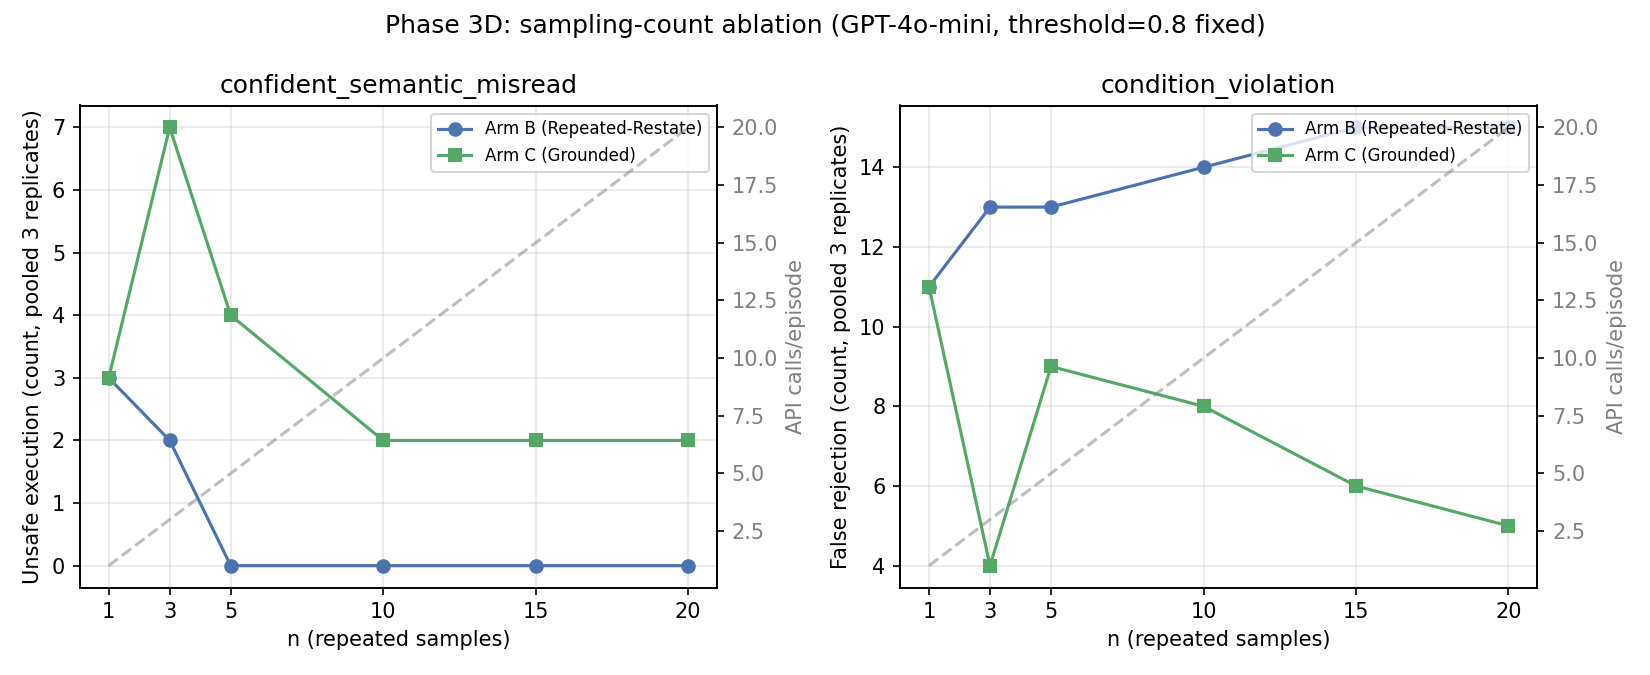
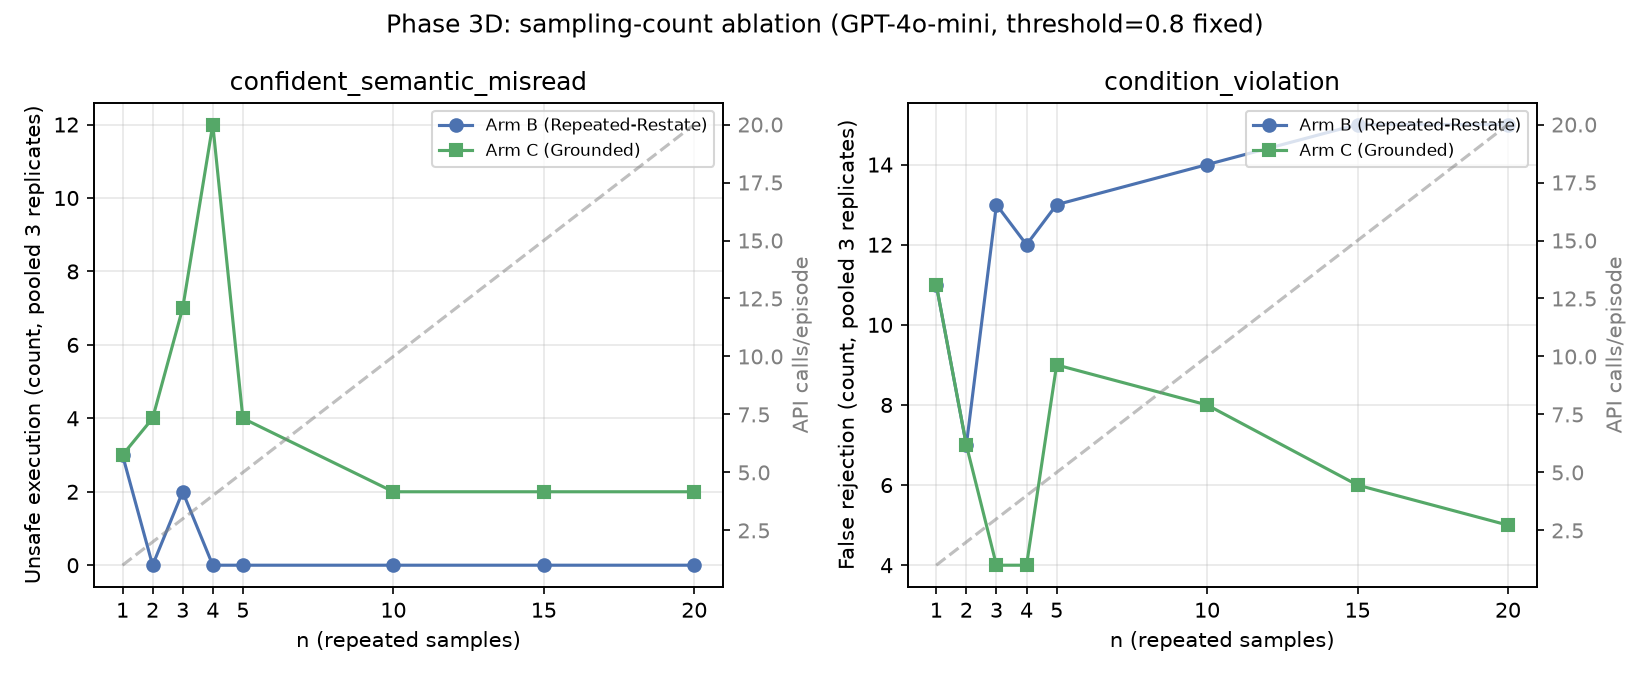
analysis: finer n-grid (add n=2,4) for sampling-count ablation, 0 new API calls
Adds n=2 and n=4 to the NS grid used by generate_figures.py,
phase3d_sampling_ablation.py, and phase3d_tradeoff_analysis.py
(1,3,5,10,15,20 -> 1,2,3,4,5,10,15,20). Pure recomputation from
already-collected raw 20-sample-per-episode data -- 0 new API calls.

Reveals a more extreme version of the previously-reported "Arm C worse
at low n" finding: the actual worst point is n=4 (unsafe=12/60 on
confident_semantic_misread), not n=3 (7/60) as the coarser grid
suggested -- both Arm B and Arm C are non-monotonic across n=1..5, not
just Arm C at a single point. Updated docs/experiments/
phase3c_methods_for_paper.md §5.6/§5.7 with the corrected tables and
honest framing; confirmed GPT-4.1's cross-model bifurcation invariance
still holds at n=2,4 (80/80 grid cells identical, up from 60/60).

fig1 and fig3 regenerated for consistency but are logically unchanged
(fig1 has no n dependency; fig3 sweeps threshold at n=20 fixed, not n)
-- confirmed by inspection.

diff --git a/experiments/phase3d_sampling_ablation.py b/experiments/phase3d_sampling_ablation.py
@@ -29,7 +29,7 @@ sys.path.insert(0, str(_EXPERIMENTS_DIR.parent / "src"))
 
 from phase3d_analysis import evaluate_episode, load_rows  # noqa: E402
 
-NS = (1, 3, 5, 10, 15, 20)
+NS = (1, 2, 3, 4, 5, 10, 15, 20)
 THRESHOLD = 0.8  # frozen, per the pre-registered plan -- not swept here
 TASKS = ("confident_semantic_misread", "condition_violation")
 

diff --git a/experiments/generate_figures.py b/experiments/generate_figures.py
@@ -26,7 +26,7 @@ sys.path.insert(0, str(_EXPERIMENTS_DIR.parent / "src"))
 
 from phase3d_analysis import evaluate_episode, load_rows  # noqa: E402
 
-NS = (1, 3, 5, 10, 15, 20)
+NS = (1, 2, 3, 4, 5, 10, 15, 20)
 THRESHOLDS = (0.4, 0.6, 0.7, 0.75, 0.8, 0.85, 0.9, 0.95, 1.0, 1.2)
 COLORS = {"A": "#888888", "B": "#4C72B0", "C": "#55A868"}
 

diff --git a/experiments/phase3d_tradeoff_analysis.py b/experiments/phase3d_tradeoff_analysis.py
@@ -31,7 +31,7 @@ from phase3d_analysis import (  # noqa: E402
 from dualflow.framework import EXECUTE, REJECT  # noqa: E402
 
 TASKS = ("confident_semantic_misread", "condition_violation")
-NS = (1, 3, 5, 10, 15, 20)
+NS = (1, 2, 3, 4, 5, 10, 15, 20)
 THRESHOLDS = (0.4, 0.6, 0.7, 0.75, 0.8, 0.85, 0.9, 0.95, 1.0, 1.2)
 
 
